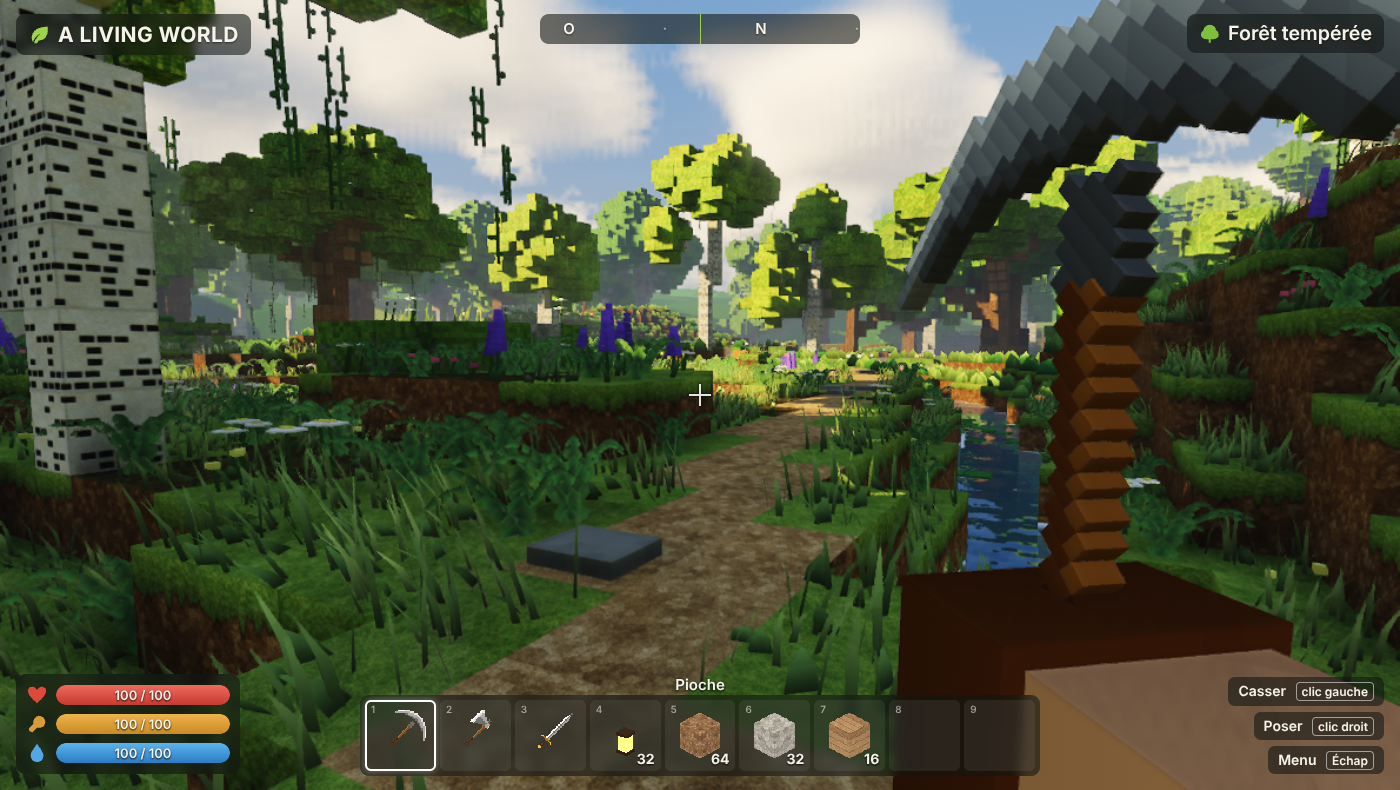
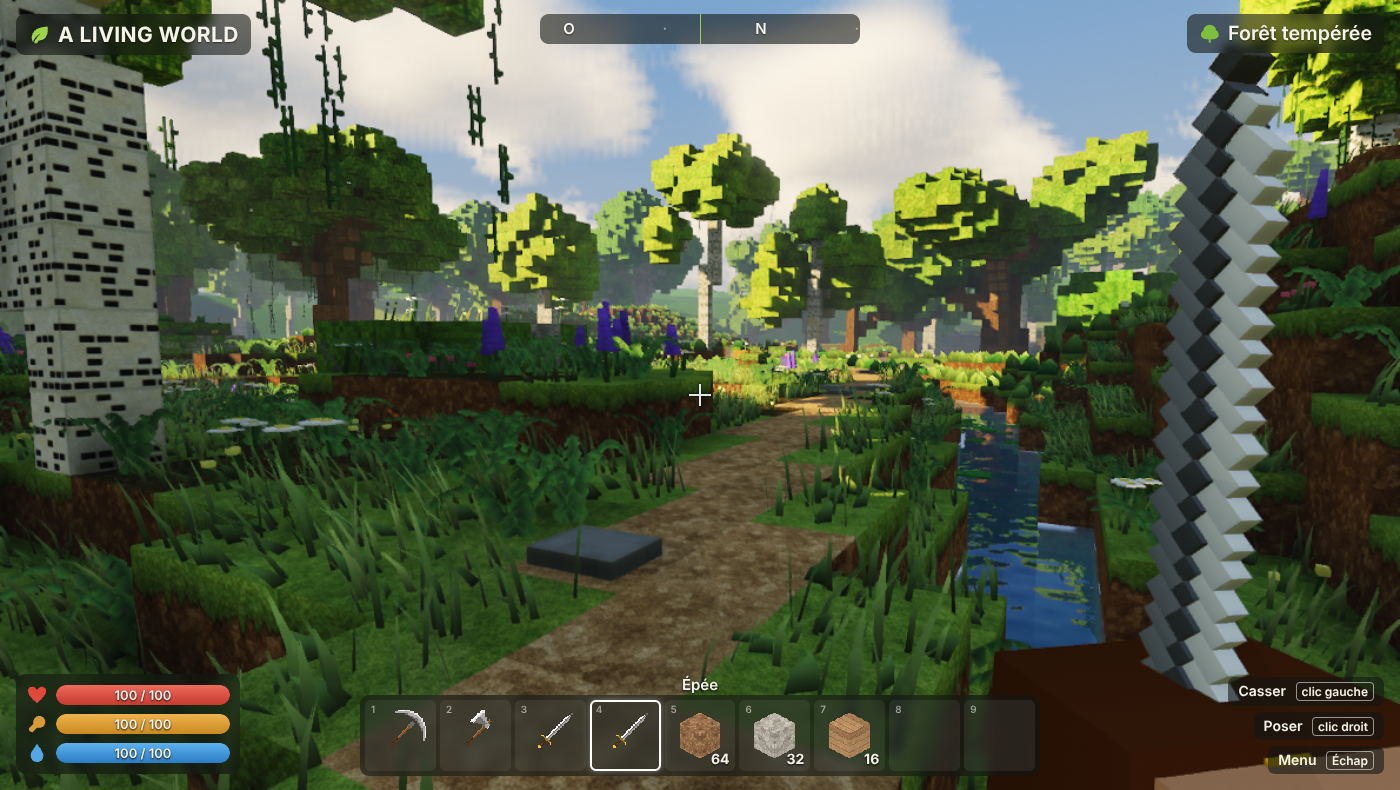
Bras en première personne plus discret
Claude-Session: https://claude.ai/code/session_01KceHewVNbQWqUpi5GGYtf6

diff --git a/src/game/character.js b/src/game/character.js
@@ -96,11 +96,11 @@ export class CharacterAnim {
   viewActors(invView, held) {
     const m = this.m, s = Math.sin(this.phase), c = Math.cos(this.phase * 0.5), w = this.walk * (1 - this.air), V = M.mul(invView, M.trs(0, 0, 0, Math.PI));
     const strike = this.swing > 0 ? Math.sin(this.swing * Math.PI) : 0, push = Math.sin(this.punch * Math.PI);
-    const x = -0.27 + c * 0.022 * w - 0.05 * this.run, y = -0.215 - Math.abs(s) * 0.022 * w - 0.05 * this.low + 0.07 * this.air * (this.rise - 0.5) - 0.06 * strike;
+    const x = -0.25 + c * 0.022 * w - 0.05 * this.run, y = -0.2 - Math.abs(s) * 0.022 * w - 0.05 * this.low + 0.07 * this.air * (this.rise - 0.5) - 0.06 * strike;
     const z = -0.08 + 0.2 * push + 0.12 * strike, rx = -1.66 + 0.22 * this.run + 0.85 * strike - 0.3 * push;
-    const arm = M.mul(V, M.trs(x, y, z, 0.2 + 0.3 * strike, rx, 0.72)), r = m.rng.armR;
+    const arm = M.mul(V, M.trs(x, y, z, 0.2 + 0.3 * strike, rx, 0.58)), r = m.rng.armR;
     const out = [{ mesh: m.mesh, model: arm, count: r.count, offset: r.offset, hero: true, view: true }];
-    if (held) out.push({ mesh: held.mesh, model: M.mul(M.mul(arm, HOLD[held.kind]), held.kind === 'tool' ? M.trs(0, 0, 0, 0, 0, 0.54) : held.kind === 'block' ? M.trs(0.04, 0.04, 0.04, 0, 0, 0.72) : M.id()), count: held.count, offset: held.offset, hero: true, view: true, local: held.local });
+    if (held) out.push({ mesh: held.mesh, model: M.mul(M.mul(arm, HOLD[held.kind]), held.kind === 'tool' ? M.trs(0, 0, 0, 0, 0, 0.5) : held.kind === 'block' ? M.trs(0.04, 0.04, 0.04, 0, 0, 0.72) : M.id()), count: held.count, offset: held.offset, hero: true, view: true, local: held.local });
     return out;
   }
 }

diff --git a/dist/index.html b/dist/index.html
@@ -2359,11 +2359,11 @@ class CharacterAnim {
   viewActors(invView, held) {
     const m = this.m, s = Math.sin(this.phase), c = Math.cos(this.phase * 0.5), w = this.walk * (1 - this.air), V = M.mul(invView, M.trs(0, 0, 0, Math.PI));
     const strike = this.swing > 0 ? Math.sin(this.swing * Math.PI) : 0, push = Math.sin(this.punch * Math.PI);
-    const x = -0.27 + c * 0.022 * w - 0.05 * this.run, y = -0.215 - Math.abs(s) * 0.022 * w - 0.05 * this.low + 0.07 * this.air * (this.rise - 0.5) - 0.06 * strike;
+    const x = -0.25 + c * 0.022 * w - 0.05 * this.run, y = -0.2 - Math.abs(s) * 0.022 * w - 0.05 * this.low + 0.07 * this.air * (this.rise - 0.5) - 0.06 * strike;
     const z = -0.08 + 0.2 * push + 0.12 * strike, rx = -1.66 + 0.22 * this.run + 0.85 * strike - 0.3 * push;
-    const arm = M.mul(V, M.trs(x, y, z, 0.2 + 0.3 * strike, rx, 0.72)), r = m.rng.armR;
+    const arm = M.mul(V, M.trs(x, y, z, 0.2 + 0.3 * strike, rx, 0.58)), r = m.rng.armR;
     const out = [{ mesh: m.mesh, model: arm, count: r.count, offset: r.offset, hero: true, view: true }];
-    if (held) out.push({ mesh: held.mesh, model: M.mul(M.mul(arm, HOLD[held.kind]), held.kind === 'tool' ? M.trs(0, 0, 0, 0, 0, 0.54) : held.kind === 'block' ? M.trs(0.04, 0.04, 0.04, 0, 0, 0.72) : M.id()), count: held.count, offset: held.offset, hero: true, view: true, local: held.local });
+    if (held) out.push({ mesh: held.mesh, model: M.mul(M.mul(arm, HOLD[held.kind]), held.kind === 'tool' ? M.trs(0, 0, 0, 0, 0, 0.5) : held.kind === 'block' ? M.trs(0.04, 0.04, 0.04, 0, 0, 0.72) : M.id()), count: held.count, offset: held.offset, hero: true, view: true, local: held.local });
     return out;
   }
 }

diff --git a/tools/play_test.py b/tools/play_test.py
@@ -13,7 +13,7 @@ with sync_playwright() as p:
     pg.wait_for_function('window.ALW&&ALW.loaded',timeout=120000)
     pg.wait_for_function('ALW.world.queued===0&&ALW.world.pending===0',timeout=120000)
     pg.wait_for_function('ALW.player.ground',timeout=60000)
-    st=lambda:pg.evaluate('({p:[...ALW.player.p],g:ALW.player.ground,yaw:ALW.player.yaw,pitch:ALW.player.pitch,inv:ALW.inv.map(i=>i.n),t:ALW.target&&[ALW.target.x,ALW.target.y,ALW.target.z,ALW.target.id],e:ALW.world.edits.size,fps:ALW.prof.fps})')
+    st=lambda:pg.evaluate('({p:[...ALW.player.p],g:ALW.player.ground,yaw:ALW.player.yaw,pitch:ALW.player.pitch,inv:ALW.inv.map(i=>i?i.n:0),t:ALW.target&&[ALW.target.x,ALW.target.y,ALW.target.z,ALW.target.id],e:ALW.world.edits.size,fps:ALW.prof.fps})')
     a=st(); print(a)
     # déplacement
     pg.keyboard.down('KeyW'); time.sleep(12); pg.keyboard.up('KeyW'); c=st()
